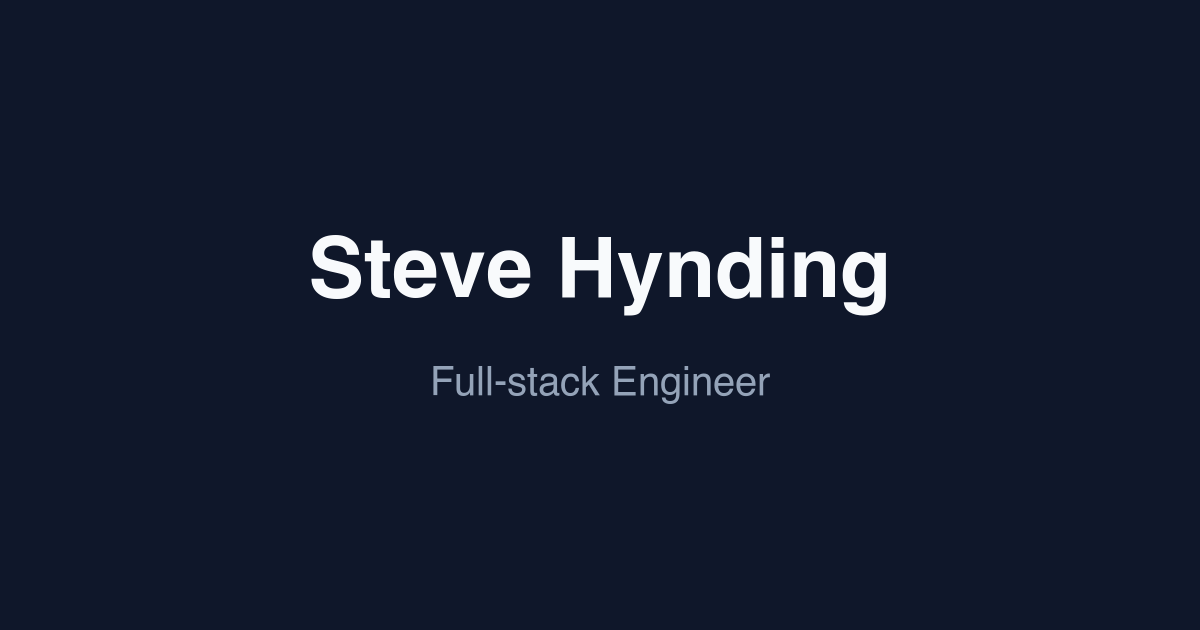
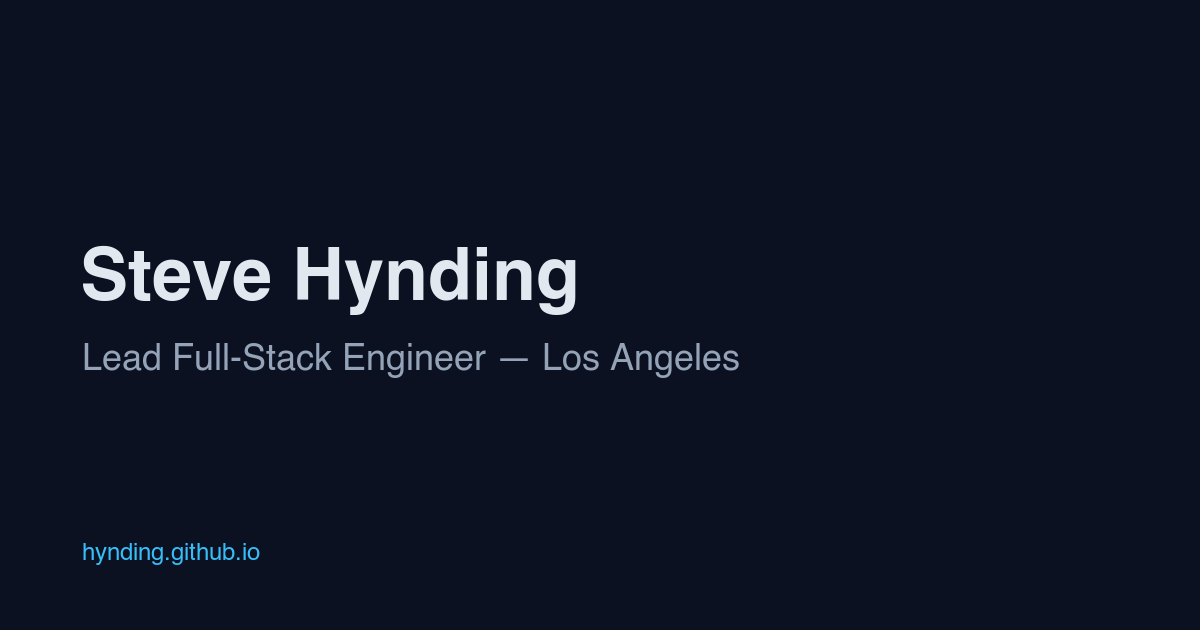
feat: real career history from LinkedIn, location and profile links
The resume said "BCG, April 2016 - Present"; the actual history is ten roles
across two decades — GSN, Animax, EA, Sony Network Entertainment, Velocify,
BCG Digital Ventures, BCG X (Lead), Pacaso, and current contracts at Jubilee
Media (backend serving 120k+ users) and Superhuman. Every bullet is sourced
from the public LinkedIn profile; nothing is invented.

basics gains optional location and profiles (id-keyed, schema-enforced).
Profiles render as header links — the first public contact route on the site —
and feed JSON-LD sameAs plus JSON Resume profiles. parseDuration now accepts
abbreviated month names. Meta descriptions, llms.txt and og.png re-synced.

90 unit tests, 12 e2e.

Changed region(s): [[0.0617, 0.3619, 0.74, 0.5127], [0.0617, 0.5429, 0.6475, 0.6333], [0.0617, 0.8444, 0.2158, 0.9048]]

diff --git a/lib/seo/jsonResume.ts b/lib/seo/jsonResume.ts
@@ -7,6 +7,14 @@ const MONTHS: Record<string, string> = {
   september: "09", october: "10", november: "11", december: "12",
 }
 
+/** "March" or LinkedIn's "Mar" both resolve; anything else is undefined. */
+function monthNumber(name: string): string | undefined {
+  const key = name.toLowerCase()
+  if (MONTHS[key]) return MONTHS[key]
+  const match = Object.keys(MONTHS).find((full) => full.startsWith(key))
+  return match && key.length >= 3 ? MONTHS[match] : undefined
+}
+
 /** "April 2016 - Present" → { startDate: "2016-04" }; unparseable shapes yield {}. */
 export function parseDuration(duration: string): { startDate?: string; endDate?: string } {
   const [start, end] = duration.split(/\s*[-–]\s*/)
@@ -18,7 +26,7 @@ export function parseDuration(duration: string): { startDate?: string; endDate?:
     if (/^\d{4}$/.test(trimmed)) return trimmed
     const match = /^([A-Za-z]+)\s+(\d{4})$/.exec(trimmed)
     if (!match) return undefined
-    const month = MONTHS[match[1].toLowerCase()]
+    const month = monthNumber(match[1])
     return month ? `${match[2]}-${month}` : undefined
   }
 
@@ -35,6 +43,13 @@ export function parseDuration(duration: string): { startDate?: string; endDate?:
  * AI recruiting tools and resume parsers consume natively. Built from the
  * PUBLIC model only; locked fields are omitted, never placeholder-filled.
  */
+/** "Los Angeles, CA" → { city, region }; a comma-less string is just a city. */
+function splitLocation(location: string): { city: string; region?: string } {
+  const index = location.lastIndexOf(",")
+  if (index === -1) return { city: location.trim() }
+  return { city: location.slice(0, index).trim(), region: location.slice(index + 1).trim() }
+}
+
 export function jsonResume(resume: Resume) {
   const { basics } = resume
 
@@ -45,6 +60,10 @@ export function jsonResume(resume: Resume) {
       label: basics.role,
       url: basics.website,
       summary: basics.summary,
+      ...(basics.location ? { location: splitLocation(basics.location) } : {}),
+      ...(basics.profiles && basics.profiles.length > 0
+        ? { profiles: basics.profiles.map(({ network, url }) => ({ network, url })) }
+        : {}),
     },
     work: resume.work.map((entry) => ({
       ...(isPrivateMarker(entry.company) ? {} : { name: entry.company }),

diff --git a/tests/unit/json-resume.test.ts b/tests/unit/json-resume.test.ts
@@ -77,3 +77,37 @@ describe("jsonResume", () => {
     expect(entry.position).toBe("Lead Full-Stack Engineer")
   })
 })
+
+describe("parseDuration with abbreviated months", () => {
+  it("parses LinkedIn-style short month names", () => {
+    expect(parseDuration("Mar 2026 - Present")).toEqual({ startDate: "2026-03" })
+    expect(parseDuration("Feb 2025 - Dec 2025")).toEqual({ startDate: "2025-02", endDate: "2025-12" })
+  })
+})
+
+describe("jsonResume with location and profiles", () => {
+  const located = {
+    ...resume,
+    basics: {
+      ...resume.basics,
+      location: "Los Angeles, CA",
+      profiles: [
+        { id: "linkedin", network: "LinkedIn", url: "https://www.linkedin.com/in/stevehynding" },
+      ],
+    },
+  } as unknown as Resume
+
+  it("emits JSON Resume location and profiles", () => {
+    const cv = jsonResume(located)
+    expect(cv.basics.location).toEqual({ city: "Los Angeles", region: "CA" })
+    expect(cv.basics.profiles).toEqual([
+      { network: "LinkedIn", url: "https://www.linkedin.com/in/stevehynding" },
+    ])
+  })
+
+  it("omits both when absent", () => {
+    const cv = jsonResume(resume)
+    expect(cv.basics.location).toBeUndefined()
+    expect(cv.basics.profiles).toBeUndefined()
+  })
+})

diff --git a/app/layout.tsx b/app/layout.tsx
@@ -14,15 +14,13 @@ export const metadata: Metadata = {
   alternates: { canonical: "/" },
   title: "Steve Hynding — Lead Full-Stack Engineer",
   description:
-    "Resume and portfolio of Steve Hynding, Lead Full-Stack Engineer — a decade at " +
-    "Boston Consulting Group building React, TypeScript and Node.js products from prototype to production.",
+    "Resume and portfolio of Steve Hynding, Lead Full-Stack Engineer in Los Angeles — two decades shipping web products for EA, Sony, BCG X and venture clients in TypeScript, React, Node and Next.js.",
   openGraph: {
     type: "website",
     url: SITE,
     title: "Steve Hynding — Lead Full-Stack Engineer",
     description:
-      "Resume and portfolio of Steve Hynding, Lead Full-Stack Engineer — a decade at " +
-      "Boston Consulting Group building React, TypeScript and Node.js products from prototype to production.",
+      "Resume and portfolio of Steve Hynding, Lead Full-Stack Engineer in Los Angeles — two decades shipping web products for EA, Sony, BCG X and venture clients in TypeScript, React, Node and Next.js.",
     images: [{ url: "/og.png", width: 1200, height: 630, alt: "Steve Hynding" }],
   },
   twitter: { card: "summary_large_image" },

diff --git a/tests/unit/jsonld.test.ts b/tests/unit/jsonld.test.ts
@@ -64,3 +64,32 @@ describe("personJsonLd", () => {
     expect(personJsonLd(gated).worksFor).toBeUndefined()
   })
 })
+
+describe("personJsonLd with location and profiles", () => {
+  const located = {
+    ...locked,
+    basics: {
+      ...locked.basics,
+      location: "Los Angeles, CA",
+      profiles: [
+        { id: "linkedin", network: "LinkedIn", url: "https://www.linkedin.com/in/stevehynding" },
+        { id: "github", network: "GitHub", url: "https://github.com/hynding" },
+      ],
+    },
+  } as unknown as Resume
+
+  it("emits sameAs from profiles and address from location", () => {
+    const ld = personJsonLd(located)
+    expect(ld.sameAs).toEqual([
+      "https://www.linkedin.com/in/stevehynding",
+      "https://github.com/hynding",
+    ])
+    expect(ld.address).toBe("Los Angeles, CA")
+  })
+
+  it("omits sameAs and address when absent", () => {
+    const ld = personJsonLd(locked)
+    expect(ld.sameAs).toBeUndefined()
+    expect(ld.address).toBeUndefined()
+  })
+})

diff --git a/components/document/sections/Header.tsx b/components/document/sections/Header.tsx
@@ -7,9 +7,16 @@ export function Header({ basics }: { basics: Resume["basics"] }) {
       <h1 className="text-3xl font-semibold tracking-tight">{basics.name}</h1>
       <p className="text-[var(--muted)]">{basics.role}</p>
       <ul className="mt-2 flex flex-wrap gap-x-4 gap-y-1 text-sm">
+        {basics.location ? <li>{basics.location}</li> : null}
         <li><PrivateValue field={basics.email} /></li>
         <li><PrivateValue field={basics.phone} /></li>
-        <li><a href={basics.website} className="text-[var(--accent)]">{basics.website}</a></li>
+        {(basics.profiles ?? []).map((profile) => (
+          <li key={profile.id}>
+            <a href={profile.url} className="text-[var(--accent)]" rel="me">
+              {profile.network}
+            </a>
+          </li>
+        ))}
       </ul>
     </header>
   )

diff --git a/lib/resume/schema.ts b/lib/resume/schema.ts
@@ -75,14 +75,23 @@ export const referenceEntrySchema = z.object({
   contact: z.string(),
 })
 
+export const profileEntrySchema = z.object({
+  id: entryId,
+  network: z.string(),
+  url: z.string().url(),
+})
+
 export const resumeSchema = z.object({
   basics: z.object({
     name: z.string(),
     role: z.string(),
     website: z.string().url(),
+    location: z.string().optional(),
     summary: z.string(),
     email: maybePrivate(z.string()),
     phone: maybePrivate(z.string()),
+    /** Public professional profiles — these feed JSON-LD sameAs and the header links. */
+    profiles: uniqueById(profileEntrySchema).optional(),
     skills: z.array(z.string()),
   }),
   work: uniqueById(workEntrySchema),

diff --git a/tests/e2e/resume.spec.ts b/tests/e2e/resume.spec.ts
@@ -126,7 +126,7 @@ test("publishes machine-readable surfaces for crawlers and agents", async ({ req
 
 test("embeds Person structured data without leaking gated fields", async ({ request }) => {
   const html = await (await request.get("/")).text()
-  const match = /<script type="application\/ld\+json">(.*?)<\/script>/s.exec(html)
+  const match = /<script type="application\/ld\+json">([\s\S]*?)<\/script>/.exec(html)
   expect(match).not.toBeNull()
   const ld = JSON.parse(match![1])
   expect(ld["@type"]).toBe("Person")

diff --git a/lib/seo/jsonld.ts b/lib/seo/jsonld.ts
@@ -23,6 +23,11 @@ export function personJsonLd(resume: Resume): Record<string, unknown> {
     knowsAbout: basics.skills,
   }
 
+  if (basics.location) person.address = basics.location
+  if (basics.profiles && basics.profiles.length > 0) {
+    person.sameAs = basics.profiles.map((profile) => profile.url)
+  }
+
   if (!isPrivateMarker(basics.email)) person.email = `mailto:${basics.email}`
   if (!isPrivateMarker(basics.phone)) person.telephone = basics.phone
 
